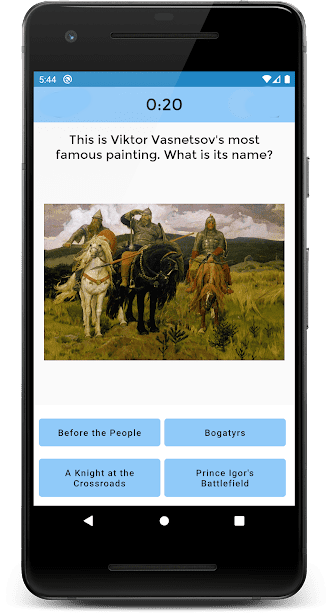
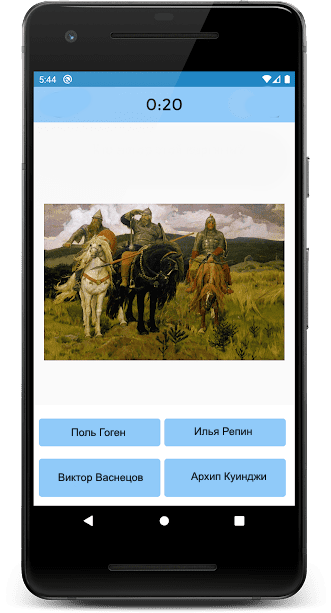
feat: edit art-quiz task

diff --git a/tasks/art-quiz/art-quiz.md b/tasks/art-quiz/art-quiz.md
@@ -16,6 +16,8 @@
 
 - [Demo работы прототипа приложения](https://youtu.be/0C9CjjuCOvM)
 - [Исходные данные](https://github.com/irinainina/image-data)
+- [Макет в figma](https://www.figma.com/file/vQ5Wm4ZSRcIYt1MQq8g8qD/ArtQuiz)  
+  *Макет даёт общее представление как может выглядеть приложение, вёрстка по макету не требуется.*
 
 ## Требования к викторине
 - тематика викторины может быть любой. Для викторины с картинами уже есть исходные данные, если решите составить викторину на другую тему, данные для неё нужно будет подготовить самостоятельно. Исходные данные викторины с картинами можно менять и улучшать по своему усмотрению. Если выполняете викторину на другую тематику, слова про картины и их авторов из описания таска заменяете на слова, соответствующие тематике вашей викторины
@@ -29,35 +31,41 @@
 
 ## Структура и функционал приложения
 1. Стартовая страница и навигация +20
-   - вёрстка, дизайн, UI стартовой страницы приложения. Выполняются требования к вёрстке и оформлению приложения +10 
-   На стартовой странице есть две кнопки, при клике по которым можно выбрать тип вопроса:
+   - вёрстка, дизайн, UI стартовой страницы приложения. Выполняются требования к вёрстке и оформлению приложения +10   
+   На стартовой странице есть кнопка, при клике по которой открывается модальное окно с настройками, и две кнопки, при клике по которым можно выбрать тип вопроса:
        - угадать художника по картине
        - угадать картину по имени её автора
    - реализована навигация по страницам приложения +10
       - со стартовой страницы при клике по кнопке с типом вопроса пользователь попадает на страницу категорий выбранного типа вопросов. Со страницы категорий пользователь может вернуться на стартовую страницу приложения
-      - со страницы категорий при клике по карточке категории пользователь попадает на страницу с вопросами категории; при клике по результатам прохождения категории пользователь попадает  на страницу с результатами ответов на вопросы категории. Со страницы с вопросами и со страницы с результатами пользователь может вернуться на страницу категорий
+      - со страницы категорий при клике по карточке категории пользователь попадает на страницу с вопросами категории; при клике по результатам прохождения категории пользователь попадает  на страницу с результатами ответов на вопросы категории. Со страницы с вопросами и со страницы с результатами пользователь может вернуться на страницу категорий  
 
    <kbd>![screenshot](assets/art-quiz-2.png)</kbd>
 
-2. Страница категорий +30
-   - вёрстка, дизайн, UI страницы категории. Выполняются требования к вёрстке и оформлению приложения +10
+2. Настройки +30  
+   В настройках есть возможность включать/выключать звук и включать/выключать игру на время
+   - звуковая индикация правильных и неправильных ответов, звуковое сопровождение окончания раунда +10
+   - если выбрана игра на время, на странице с вопросами викторины отображается таймер, отсчитывающий время, которое отведено для ответа на вопрос, например, 20 секунд +10
+   - если время истекает, а ответа нет, это засчитывается как неправильный ответ на вопрос +10
+
+3. Страница категорий +30  
+   - вёрстка, дизайн, UI страницы категории. Выполняются требования к вёрстке и оформлению приложения +10   
    На странице категорий размещаются карточки категорий.       
    Карточки категорий могут иметь названия, или их можно просто пронумеровать.  
    - карточка категории, на вопросы которой уже давались ответы, внешне отличается от карточки категории, которая ещё не игралась +10
    - карточка категории, на вопросы которой уже давались ответы, содержит результаты прохождения раунда: отношение количества вопросов, на которые был дан правильный ответ, к общему количеству вопросов +10  
-   Например, на скрине ниже первая категория вопросов уже пройдена (белый фон, синий шрифт, в правом верхнем углу отображаются результаты прохождения раунда), остальные ещё нет (цветной фон, белый шрифт, нет результатов прохождения раунда)
+   Например, на скрине ниже первая категория вопросов уже пройдена (белый фон, синий шрифт, в правом верхнем углу отображаются результаты прохождения раунда), остальные ещё нет (цветной фон, белый шрифт, нет результатов прохождения раунда)  
 
    <kbd>![screenshot](assets/art-quiz-3.png)</kbd>
 
-3. Страница с вопросами +60
-   - вёрстка, дизайн, UI страницы с вопросами. Выполняются требования к вёрстке и оформлению приложения +10
-   - ни в коем случае не ожидается, что вы вручную напишете все вопросы викторины и варианты ответов к ним - вопросы про художников и про картины должны генерироваться автоматически на основе предложенных или созданных самостоятельно исходных данных +10  
+4. Страница с вопросами +50
+   - вёрстка, дизайн, UI страницы с вопросами. Выполняются требования к вёрстке и оформлению приложения +10  
+   Ни в коем случае не ожидается, что вы вручную напишете все вопросы викторины и варианты ответов к ним - вопросы про художников и про картины должны генерироваться автоматически на основе исходных данных.  
    Вопросы в викторине идут в том порядке, в каком информация про картины и их авторов размещается в файле `images.js` коллекции исходных данных.  
-   Примеры вопросов про художников и про картины, которые можно сгенерировать на основании предложенных в задании исходных данных:
+   Примеры вопросов про художников и про картины, которые можно сгенерировать на основании предложенных в задании исходных данных:  
 
    <kbd>![screenshot](assets/art-quiz-4.png)</kbd>
 
-   - варианты ответов на вопросы генерируются случайным образом +10
+   - варианты ответов на вопросы генерируются случайным образом +10   
    В вариантах ответов на вопросы викторины должен быть правильный ответ и только один.  
    Правильный ответ в разных вопросах должен находиться на разных местах, а не, например, всегда быть только первым.  
    Варианты ответов должны быть разными, в вариантах ответов не должны повторяться картины одного и того же художника.  
@@ -69,7 +77,7 @@
    
    - после окончания раунда выводится модальное окно с уведомлением об окончании раунда и его результатами - отношением количества вопросов, на которые был дан правильный ответ, к общему количеству вопросов +10
   
-4. Страница с результатами +50
+5. Страница с результатами +50
    - вёрстка, дизайн, UI страницы с результатами. Выполняются требования к вёрстке и оформлению приложения +10
    - страница с результатами содержит превью всех картин категории +10
    - картины, на вопросы про которые или про их авторов был дан правильный ответ, цветные; картины, на вопросы про которые был дан неправильный ответ, черно-белые +10
@@ -78,14 +86,10 @@
    
    <kbd>![screenshot](assets/art-quiz-6.png)</kbd>
 
-5. Реализована анимация отдельных деталей интерфейса, также анимированы переходы и взаимодействия, чтобы работа с приложением шла плавным и непрерывным потоком +30  
+6. Реализована анимация отдельных деталей интерфейса, также анимированы переходы и взаимодействия, чтобы работа с приложением шла плавным и непрерывным потоком +20  
 Примеры анимаций можно увидеть в [видео](https://youtu.be/0C9CjjuCOvM) и [gif](assets/art-quiz.gif)
-   - 10 баллов за каждую уникальную сложную анимацию, улучшающую интерфейс и удобство использования приложения, но не больше 30 баллов.
+   - 5 баллов за каждую уникальную сложную анимацию, улучшающую интерфейс и удобство использования приложения, но не больше 20 баллов.
    - Для удобства проверки перечень и описание реализованных анимаций включите в самооценку, которую выведите в консоль браузера 
-
-6. Дополнительный функционал +20  
-   - звуковая индикация правильных и неправильных ответов, звуковое сопровождение окончания раунда +10
-   - есть переключатель, который позволяет выбрать игру на время или игру без учёта времени. Если выбрана игра на время, на странице с вопросами викторины отображается таймер, отсчитывающий время, которое отведено для ответа на вопрос, например, 20 секунд. Когда время истекает, это засчитывается как неправильный ответ на вопрос
 
    <kbd>![screenshot](assets/art-quiz-7.png)</kbd>
 
